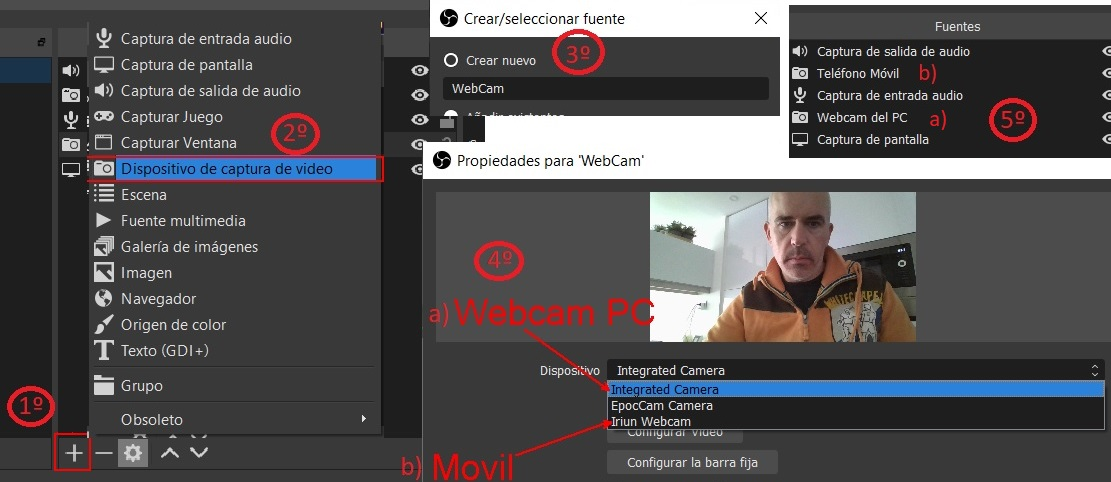
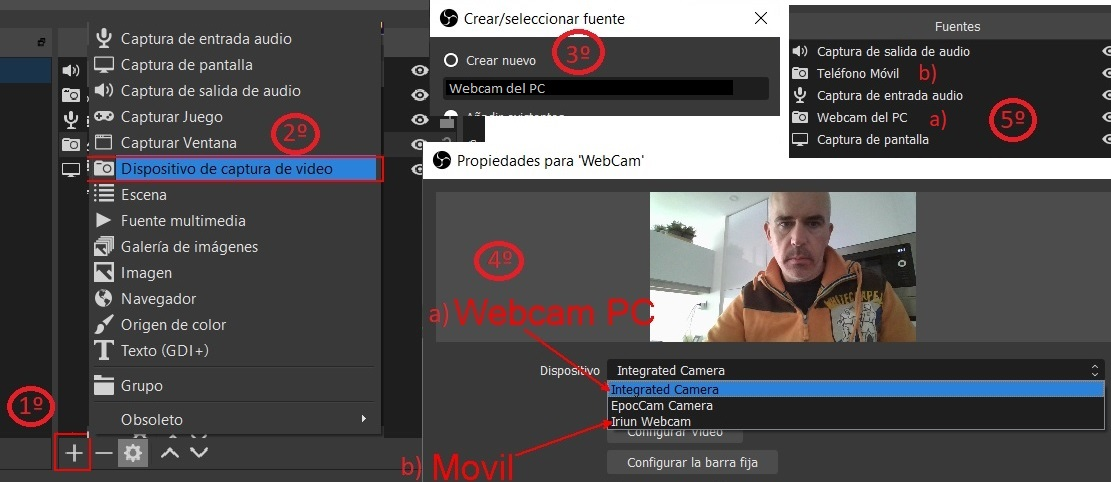
Herramientas de grabación de examen

Changed region(s): [[0.3978, 0.1556, 0.6733, 0.2178]]

diff --git a/00.tools/README.md b/00.tools/README.md
@@ -6,7 +6,7 @@ Software de grabación de escritorio y fuentes externas (webcam y móvil) que gr
 
 https://obsproject.com/es/download
 
-### Iriun Webcam 
+#### Iriun Webcam 
 Software que permite utilizar el móvil como segunda webcam.
 
 - Software para el PC: https://iriun.com/. 
@@ -16,11 +16,20 @@ Software que permite utilizar el móvil como segunda webcam.
 - Software para el móvil: 
 	- Se conectará al software servidor anterior previamente ejecutado.
 
+### Configuración de OBS
+
+Repetir esta operación dos veces:
+- a) Webcam del PC
+- b) Webcam del Teléfono móvil
 
 ![](https://raw.githubusercontent.com/DavidContrerasICAI/javaCourseExamples/master/00.tools/OBS.jpg) 
 
-![](https://raw.githubusercontent.com/DavidContrerasICAI/javaCourseExamples/master/00.tools/Desktop.jpg) 
+### Preparación del escenario del examen
 
+- Se deberá posicionar el móvil en un lugar que permita visualizar CLARAMENTE la mesa y las manos del alumno (la imagen que se muestra no es la mejor vista).
+- No se deberá tener NADA sobre la mesa (la mesa que se muestra es un mal ejemplo).
+
+![](https://raw.githubusercontent.com/DavidContrerasICAI/javaCourseExamples/master/00.tools/Desktop.jpg) 
 
 ### Examen
 El alumno deberá grabar un vídeo corto de 1 minuto y subirlo a Moodle en la entrega "Prueba de escenario". El profesor deberá dar el VºBº a cada escenario que deberá ser el mismo que el del día del examen.
